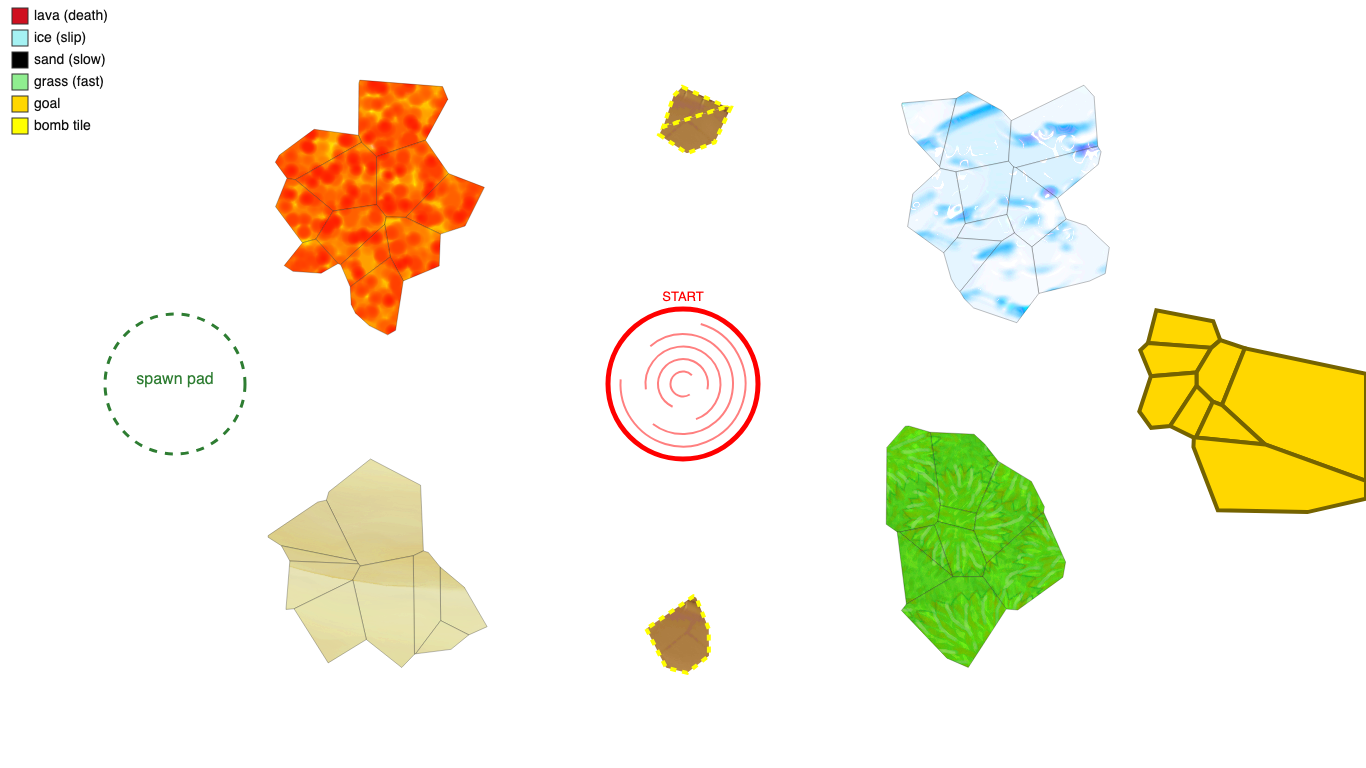
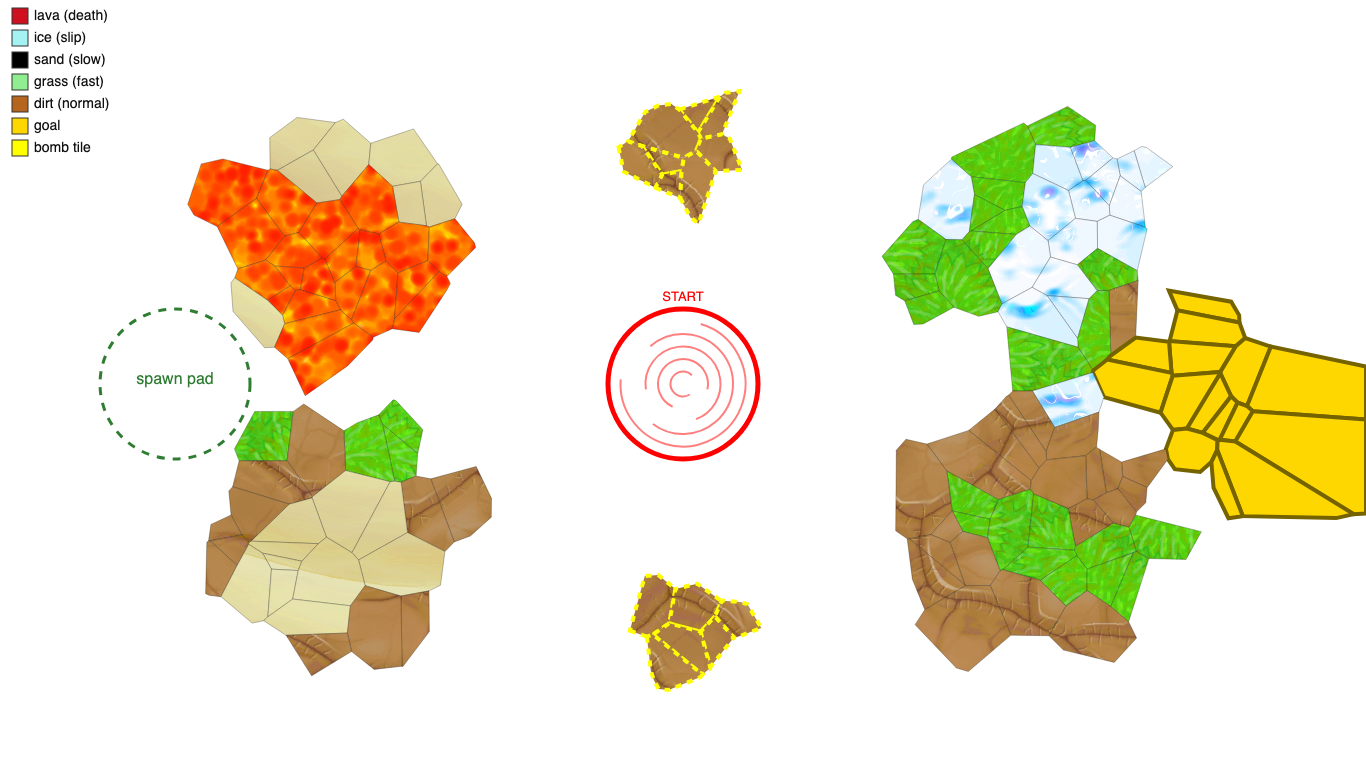
draft: larger, type-blended biome islands for lobby tutorial
Islands are now larger (r95 -> r130) and each biome blends several
terrain types via seeded coherent value noise: a dominant type at the
core with natural fringes of related types (volcano=lava/slow/fast,
glacier=ice/fast/dirt, dunes=sand/dirt/grass, meadow=grass/dirt/ice).
Goal and bomb tiles kept pure for teaching clarity. Denser site field
(470) for smoother blends. Preview legend gains dirt; preview image
re-rendered.

diff --git a/tools/genLobbyTutorialMap.js b/tools/genLobbyTutorialMap.js
@@ -4,13 +4,17 @@
  * Generates the lobby tutorial "islands" map (see docs/lobby-tutorial-analysis.md).
  *
  * Produces a full-coverage Voronoi field where most cells are the transparent
- * `background` terrain type (id 9) and a few clustered regions are tagged as
- * interactive islands (lava, ice, slow, fast, goal, bomb). The game renders
- * `background` cells as nothing (showing the plain lobby behind) and treats them
- * as neutral/normal ground — see the renderer skip in draw.js and the handleHit
- * branch in game.js.
+ * `background` terrain type (id 9) and a few larger clustered regions are
+ * "biome" islands. Each biome blends several terrain types via coherent value
+ * noise — a dominant type at the core with natural fringes of related types —
+ * so islands read as organic landmasses rather than flat single-type blobs.
+ * The goal and bomb tiles are kept pure (single type) for teaching clarity.
  *
- * Deterministic: uses a fixed seed so re-running yields the identical map.
+ * The game renders `background` cells as nothing (showing the plain lobby
+ * behind) and treats them as neutral/normal ground — see the renderer skip in
+ * draw.js and the handleHit branch in game.js.
+ *
+ * Deterministic: fixed seed -> identical map every run.
  *
  * Usage:  node tools/genLobbyTutorialMap.js
  * Output: client/maps/_lobbyTutorial.json
@@ -38,20 +42,41 @@ const W = 1366;
 const H = 768;
 const bbox = { xl: 0, xr: W, yt: 0, yb: H };
 
-// --- island layout (all kept clear of the center start button @ (683,384) r75) ---
-// Each island = a circle; a cell is tagged if its SITE falls inside the circle.
-const ISLANDS = [
-	{ id: ID.lava, cx: 380, cy: 200, r: 95 }, // top-left: the danger
-	{ id: ID.ice, cx: 986, cy: 200, r: 95 }, // top-right: slippery
-	{ id: ID.slow, cx: 380, cy: 568, r: 95 }, // bottom-left: sticky/sand
-	{ id: ID.fast, cx: 986, cy: 568, r: 95 }, // bottom-right: speed
-	{ id: ID.goal, cx: 1210, cy: 384, r: 80 }, // right-center: the objective (yellow)
-	{ id: ID.bomb, cx: 683, cy: 130, r: 46 }, // top-center: ability (aim/fire)
-	{ id: ID.bomb, cx: 683, cy: 638, r: 46 }, // bottom-center: ability
+// --- biome islands: larger, blended landmasses (dominant type + fringes) ---
+// palette weights sum ~1; the dominant type owns the core, secondaries blend in
+// toward the edges where the noise value runs higher.
+const BIOMES = [
+	{
+		name: "volcano",
+		cx: 340, cy: 240, r: 130,
+		palette: [[ID.lava, 0.58], [ID.slow, 0.27], [ID.fast, 0.15]],
+	},
+	{
+		name: "glacier",
+		cx: 1030, cy: 240, r: 130,
+		palette: [[ID.ice, 0.58], [ID.fast, 0.27], [ID.normal, 0.15]],
+	},
+	{
+		name: "dunes",
+		cx: 340, cy: 540, r: 130,
+		palette: [[ID.slow, 0.58], [ID.normal, 0.27], [ID.fast, 0.15]],
+	},
+	{
+		name: "meadow",
+		cx: 1030, cy: 540, r: 130,
+		palette: [[ID.fast, 0.58], [ID.normal, 0.27], [ID.ice, 0.15]],
+	},
 ];
 
-// Background spawn pad (just neutral background; recorded for spawn/respawn logic).
-const SPAWN_PAD = { cx: 175, cy: 384, r: 70 };
+// --- pure (single-type) islands: kept un-blended for teaching clarity ---
+const PURE = [
+	{ id: ID.goal, cx: 1230, cy: 384, r: 90 }, // the objective (yellow)
+	{ id: ID.bomb, cx: 683, cy: 150, r: 55 }, // ability tile (aim/fire)
+	{ id: ID.bomb, cx: 683, cy: 620, r: 55 }, // ability tile
+];
+
+// Background spawn pad (just neutral background; recorded for spawn/respawn).
+const SPAWN_PAD = { cx: 175, cy: 384, r: 75 };
 
 // --- deterministic RNG (mulberry32) ---
 function mulberry32(a) {
@@ -65,6 +90,66 @@ function mulberry32(a) {
 }
 const rand = mulberry32(0x10bb1);
 
+// --- coherent value noise (seeded), used to blend biome terrain naturally ---
+function makeNoise(seed) {
+	function hash(ix, iy) {
+		var n = (ix * 374761393 + iy * 668265263 + seed * 2654435761) | 0;
+		n = Math.imul(n ^ (n >>> 13), 1274126177);
+		return ((n ^ (n >>> 16)) >>> 0) / 4294967296;
+	}
+	function smooth(t) { return t * t * (3 - 2 * t); }
+	function lerp(a, b, t) { return a + (b - a) * t; }
+	function n2(x, y) {
+		var x0 = Math.floor(x), y0 = Math.floor(y);
+		var tx = smooth(x - x0), ty = smooth(y - y0);
+		return lerp(
+			lerp(hash(x0, y0), hash(x0 + 1, y0), tx),
+			lerp(hash(x0, y0 + 1), hash(x0 + 1, y0 + 1), tx),
+			ty
+		);
+	}
+	// two octaves for a little richness
+	return function (x, y) {
+		const f = 0.018;
+		return n2(x * f, y * f) * 0.66 + n2(x * f * 2.3 + 100, y * f * 2.3 + 100) * 0.34;
+	};
+}
+const noise = makeNoise(0x5eed);
+
+function dist(x, y, c) {
+	const dx = x - c.cx, dy = y - c.cy;
+	return Math.sqrt(dx * dx + dy * dy);
+}
+
+function pickFromPalette(palette, val) {
+	let acc = 0;
+	for (const [id, w] of palette) {
+		acc += w;
+		if (val <= acc) return id;
+	}
+	return palette[palette.length - 1][0];
+}
+
+function classify(x, y) {
+	// Spawn pad stays clean background.
+	if (dist(x, y, SPAWN_PAD) <= SPAWN_PAD.r) return ID.background;
+	// Pure islands (goal, bomb) win first and are never blended.
+	for (const p of PURE) {
+		if (dist(x, y, p) <= p.r) return p.id;
+	}
+	// Biome islands: blend the palette by noise, biased toward the dominant
+	// type near the core so each biome stays recognizable.
+	for (const b of BIOMES) {
+		const d = dist(x, y, b);
+		if (d <= b.r) {
+			const dn = d / b.r; // 0 center .. 1 edge
+			const val = noise(x, y) * 0.68 + dn * 0.32; // edges -> higher -> secondaries
+			return pickFromPalette(b.palette, val);
+		}
+	}
+	return ID.background;
+}
+
 // --- load the repo's Voronoi library in a vm sandbox ---
 function loadVoronoi() {
 	const code = fs.readFileSync(
@@ -77,33 +162,14 @@ function loadVoronoi() {
 	return new ctx.Voronoi();
 }
 
-function inCircle(x, y, c) {
-	const dx = x - c.cx;
-	const dy = y - c.cy;
-	return dx * dx + dy * dy <= c.r * c.r;
-}
-
-function classify(x, y) {
-	// Keep the spawn pad as clean background (skip island tagging there).
-	if (inCircle(x, y, SPAWN_PAD)) return ID.background;
-	for (const isl of ISLANDS) {
-		if (inCircle(x, y, isl)) return isl.id;
-	}
-	return ID.background;
-}
-
 function main() {
 	const voronoi = loadVoronoi();
 
-	// Site placement: jittered, with the editor's 7% margin so cells near the
-	// border stay well-formed. Denser than the editor default (320 vs 250) for
-	// smoother island edges.
-	const SITES = 320;
-	const margin = 0.07;
-	const xo = W * margin,
-		dx = W - xo * 2;
-	const yo = H * margin,
-		dy = H - yo * 2;
+	// Denser site field than the editor default for smoother islands / blends.
+	const SITES = 470;
+	const margin = 0.05;
+	const xo = W * margin, dx = W - xo * 2;
+	const yo = H * margin, dy = H - yo * 2;
 
 	const sites = [];
 	for (let i = 0; i < SITES; i++) {
@@ -115,7 +181,6 @@ function main() {
 
 	const diagram = voronoi.compute(sites, bbox);
 
-	// Tag every cell by the region its site lands in.
 	const counts = {};
 	for (const cell of diagram.cells) {
 		const id = classify(cell.site.x, cell.site.y);
@@ -123,20 +188,18 @@ function main() {
 		counts[id] = (counts[id] || 0) + 1;
 	}
 
-	// Metadata (matches the editor's saved-map shape).
 	diagram.id = "lobbyTutorialIslandsV1";
 	diagram.name = "LobbyTutorial";
 	diagram.author = "system";
 	diagram.email = "";
-	diagram.thumbnail = ""; // excluded from map-select; no thumb needed
-	diagram.hazards = []; // bumpers deferred for v1
-	diagram.lobbyOnly = true; // determineNextMap() must skip this (no race rotation)
-	diagram.spawnPad = SPAWN_PAD; // safe spawn/respawn region (background = sanctuary)
+	diagram.thumbnail = "";
+	diagram.hazards = [];
+	diagram.lobbyOnly = true;
+	diagram.spawnPad = SPAWN_PAD;
 
 	const outPath = path.join(ROOT, "client/maps/_lobbyTutorial.json");
 	fs.writeFileSync(outPath, JSON.stringify(diagram));
 
-	// Summary
 	const names = { 0: "slow", 1: "normal", 2: "fast", 3: "lava", 4: "ice", 6: "goal", 9: "background", 102: "bomb" };
 	console.log("wrote", path.relative(ROOT, outPath));
 	console.log("cells:", diagram.cells.length, "edges:", diagram.edges.length, "vertices:", diagram.vertices.length);

diff --git a/tools/previewLobbyMap.js b/tools/previewLobbyMap.js
@@ -93,7 +93,7 @@ function draw(){
 
   // dev legend (preview only — no text in the real lobby)
   var L=[['lava (death)','#cf1020'],['ice (slip)','#A5F2F3'],['sand (slow)','#000'],
-         ['grass (fast)','#90ee90'],['goal','#FFD700'],['bomb tile','#FFFF00']];
+         ['grass (fast)','#90ee90'],['dirt (normal)','#b5651d'],['goal','#FFD700'],['bomb tile','#FFFF00']];
   ctx.textAlign='left'; ctx.font='14px sans-serif';
   for(var j=0;j<L.length;j++){ var y=20+j*22;
     ctx.fillStyle=L[j][1]; ctx.fillRect(12,y-12,16,16);